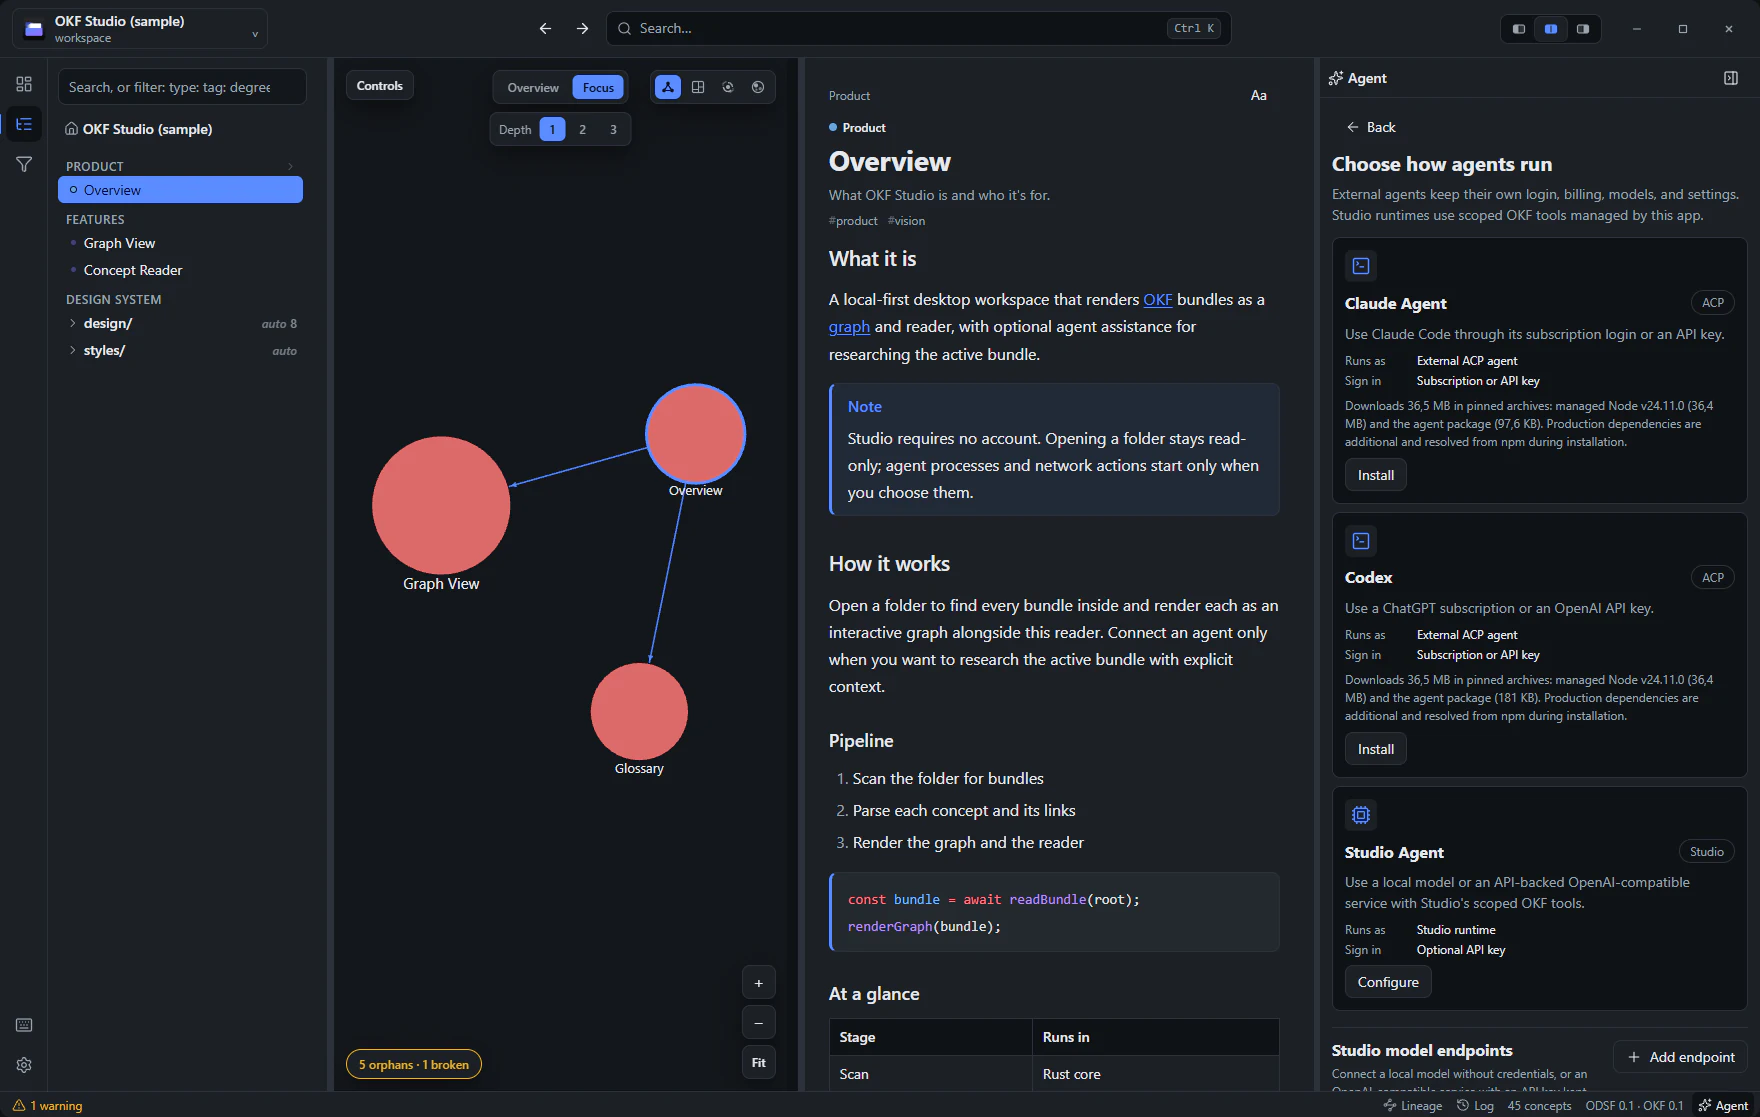
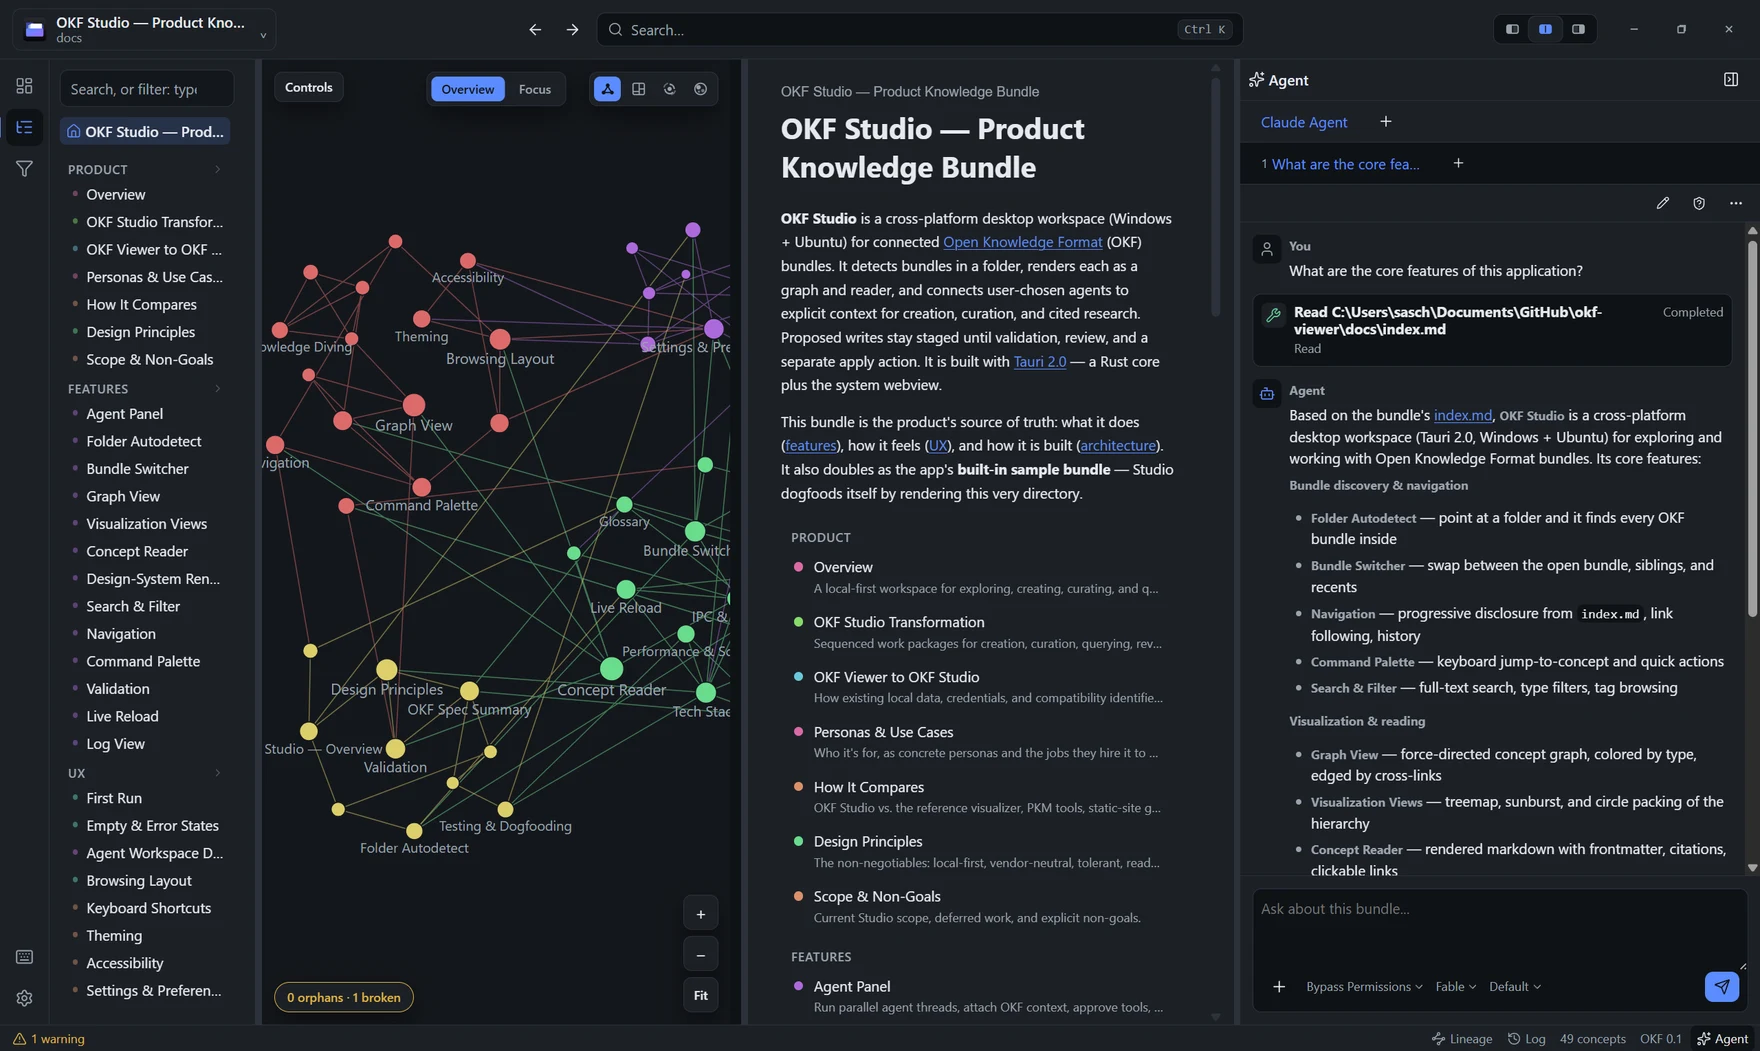
feat(site): give the agent story its own section
Condense the oversized agent feature card to a one-glance summary and
add a dedicated six-card section: registry installs, local models,
restored threads, explicit context, reviewed writes, and visible
security. One idea per card, plain copy, with an Agents nav link.

Rebrand the hero eyebrow from Open Knowledge Workspace to OKF Studio at
v0.3.0, replace the hero screenshot with a live agent thread answering
a question about the open bundle, and note the new
variable-height screenshot convention in the site README.

diff --git a/docs/log.md b/docs/log.md
@@ -1,6 +1,7 @@
 # Update Log
 
 ## 2026-07-15
+* **Update**: Bumped Studio to 0.3.0 for the agent-workspace release train. The marketing site now brands its hero as OKF Studio with that version, shows a live agent thread answering a bundle question as the hero screenshot, and replaces the single oversized agent feature card with a compact card plus a dedicated six-card agent section covering registry installs, local models, restored threads, explicit context, reviewed writes, and visible security.
 * **Creation**: Cursor becomes installable as the catalog's first binary distribution. Studio measured the SHA-256 of all six per-platform archives itself at snapshot time — the upstream registry entry publishes none — and installs them through a parallel Rust transaction with a 256 MB compressed cap, a pinned-size expansion bound under one root, no links, and no scripts. Launch bypasses the publisher's shell and PowerShell shims: Studio spawns the archive's bundled Node with the pinned entry file and `acp` argument directly and reproduces the shim's `CURSOR_INVOKED_AS` through environment defaults. The direct launch was verified with a real ACP initialize round-trip before pinning. Goose, Kimi CLI, and OpenCode remain planned until their archives can be pinned the same way.
 
 ## 2026-07-14

diff --git a/site/README.md b/site/README.md
@@ -26,5 +26,5 @@ Deploys via the repo's Pages workflow on pushes to `main`; it is not part of the
 ## Conventions
 
 - Copy style: plain and concrete, no em dashes (matches the bundle's voice rule).
-- Screenshots in `public/` are hand-captured from the desktop app (1760×1117). When the app's look changes materially, recapture them; the copy should never describe things the images don't show.
+- Screenshots in `public/` are hand-captured from the desktop app and resized to 1760px wide (heights vary with the captured window). When the app's look changes materially, recapture them; the copy should never describe things the images don't show, and each `<img>` carries its file's real width/height.
 - The version label in `index.astro` (and `softwareVersion` in `Base.astro`) tracks the *next* release during development; download buttons always point at `releases/latest`.
